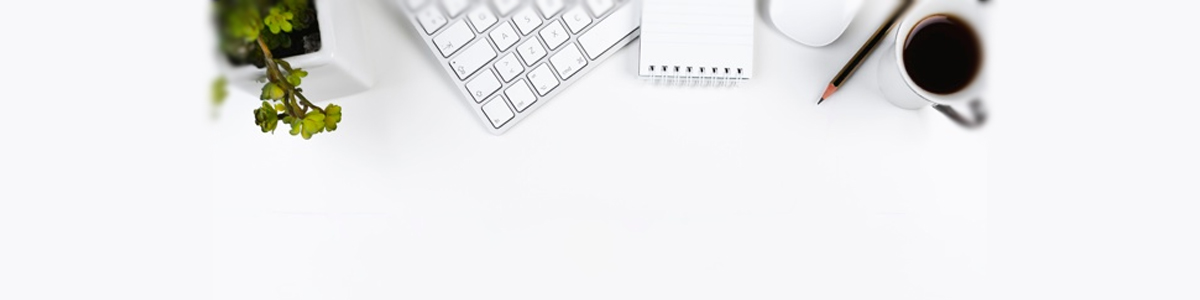
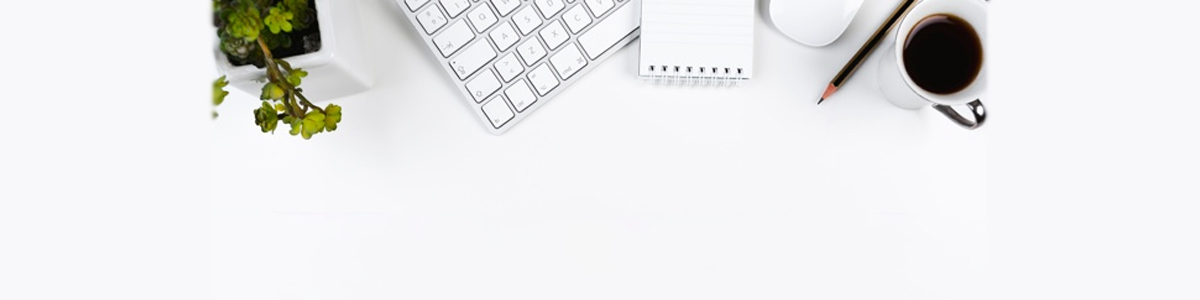
test slider

diff --git a/content/home/slider.md b/content/home/slider.md
@@ -23,7 +23,7 @@ height = "300px"
   # Overlay a color or image (optional).
   #   Deactivate an option by commenting out the line, prefixing it with `#`.
   overlay_color = "#666"  # An HTML color value.
-  overlay_img = "headers/bubbles-wide.jpg"  # Image path relative to your `static/media/` folder.
+  overlay_img = "slider_crimson_shine.jpg  # Image path relative to your `static/media/` folder.
   overlay_filter = 0.5  # Darken the image. Value in range 0-1.
 
   # Call to action button (optional).
